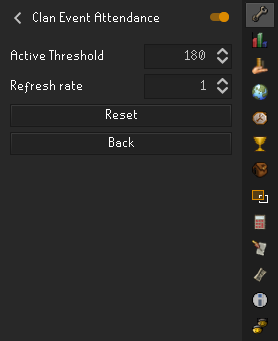
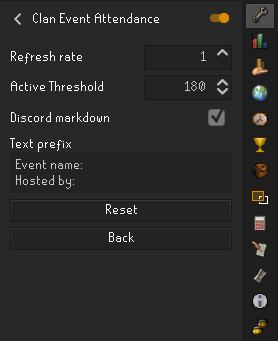
Added new config to Readme

diff --git a/README.md b/README.md
@@ -18,8 +18,10 @@ Config
 ------
 
 The config allows to:
-- set a time threshold to consider a member part of the event.
-- set the refresh rate of the plugin.
+- Set a time threshold to consider a member part of the event.
+- Set the refresh rate of the plugin panel.
+- Surround the final list with multiline code blocks markdown for better Discord display
+- Type a text block that will be added as a prefix to the final result
 
 ![Config Page](/assets/ClanEventAttendance5.png "Config Page")
 
